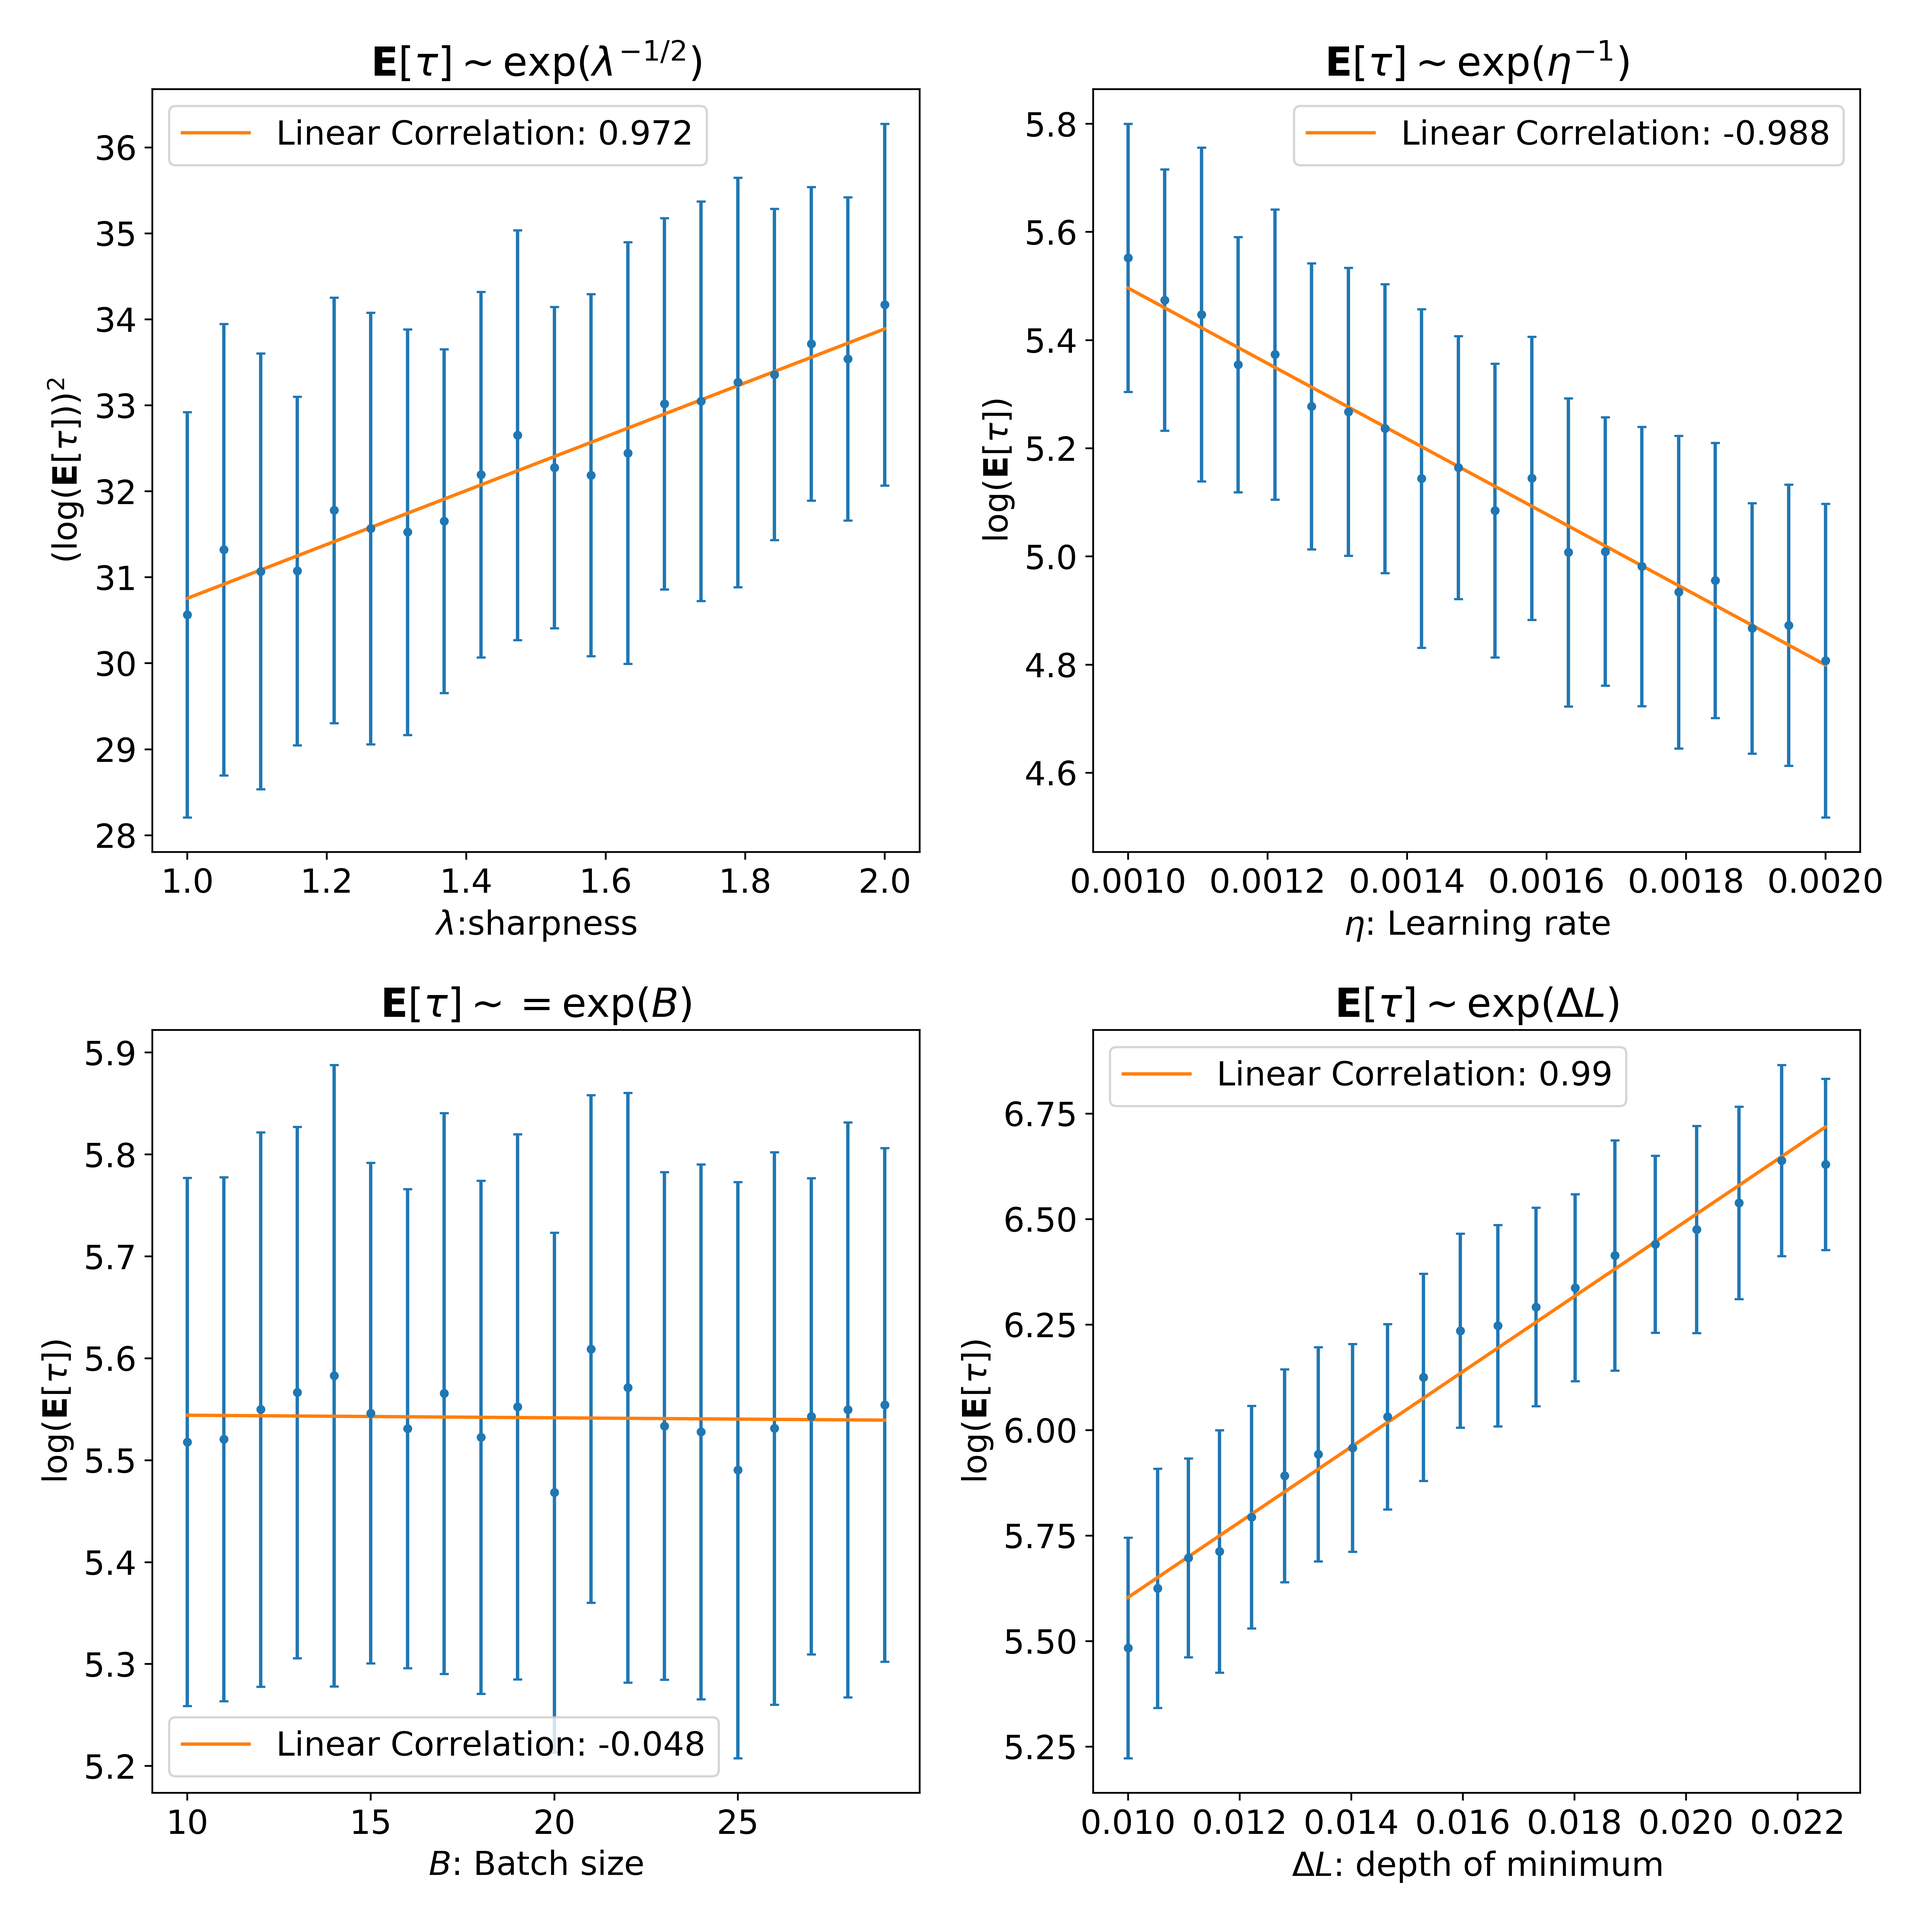
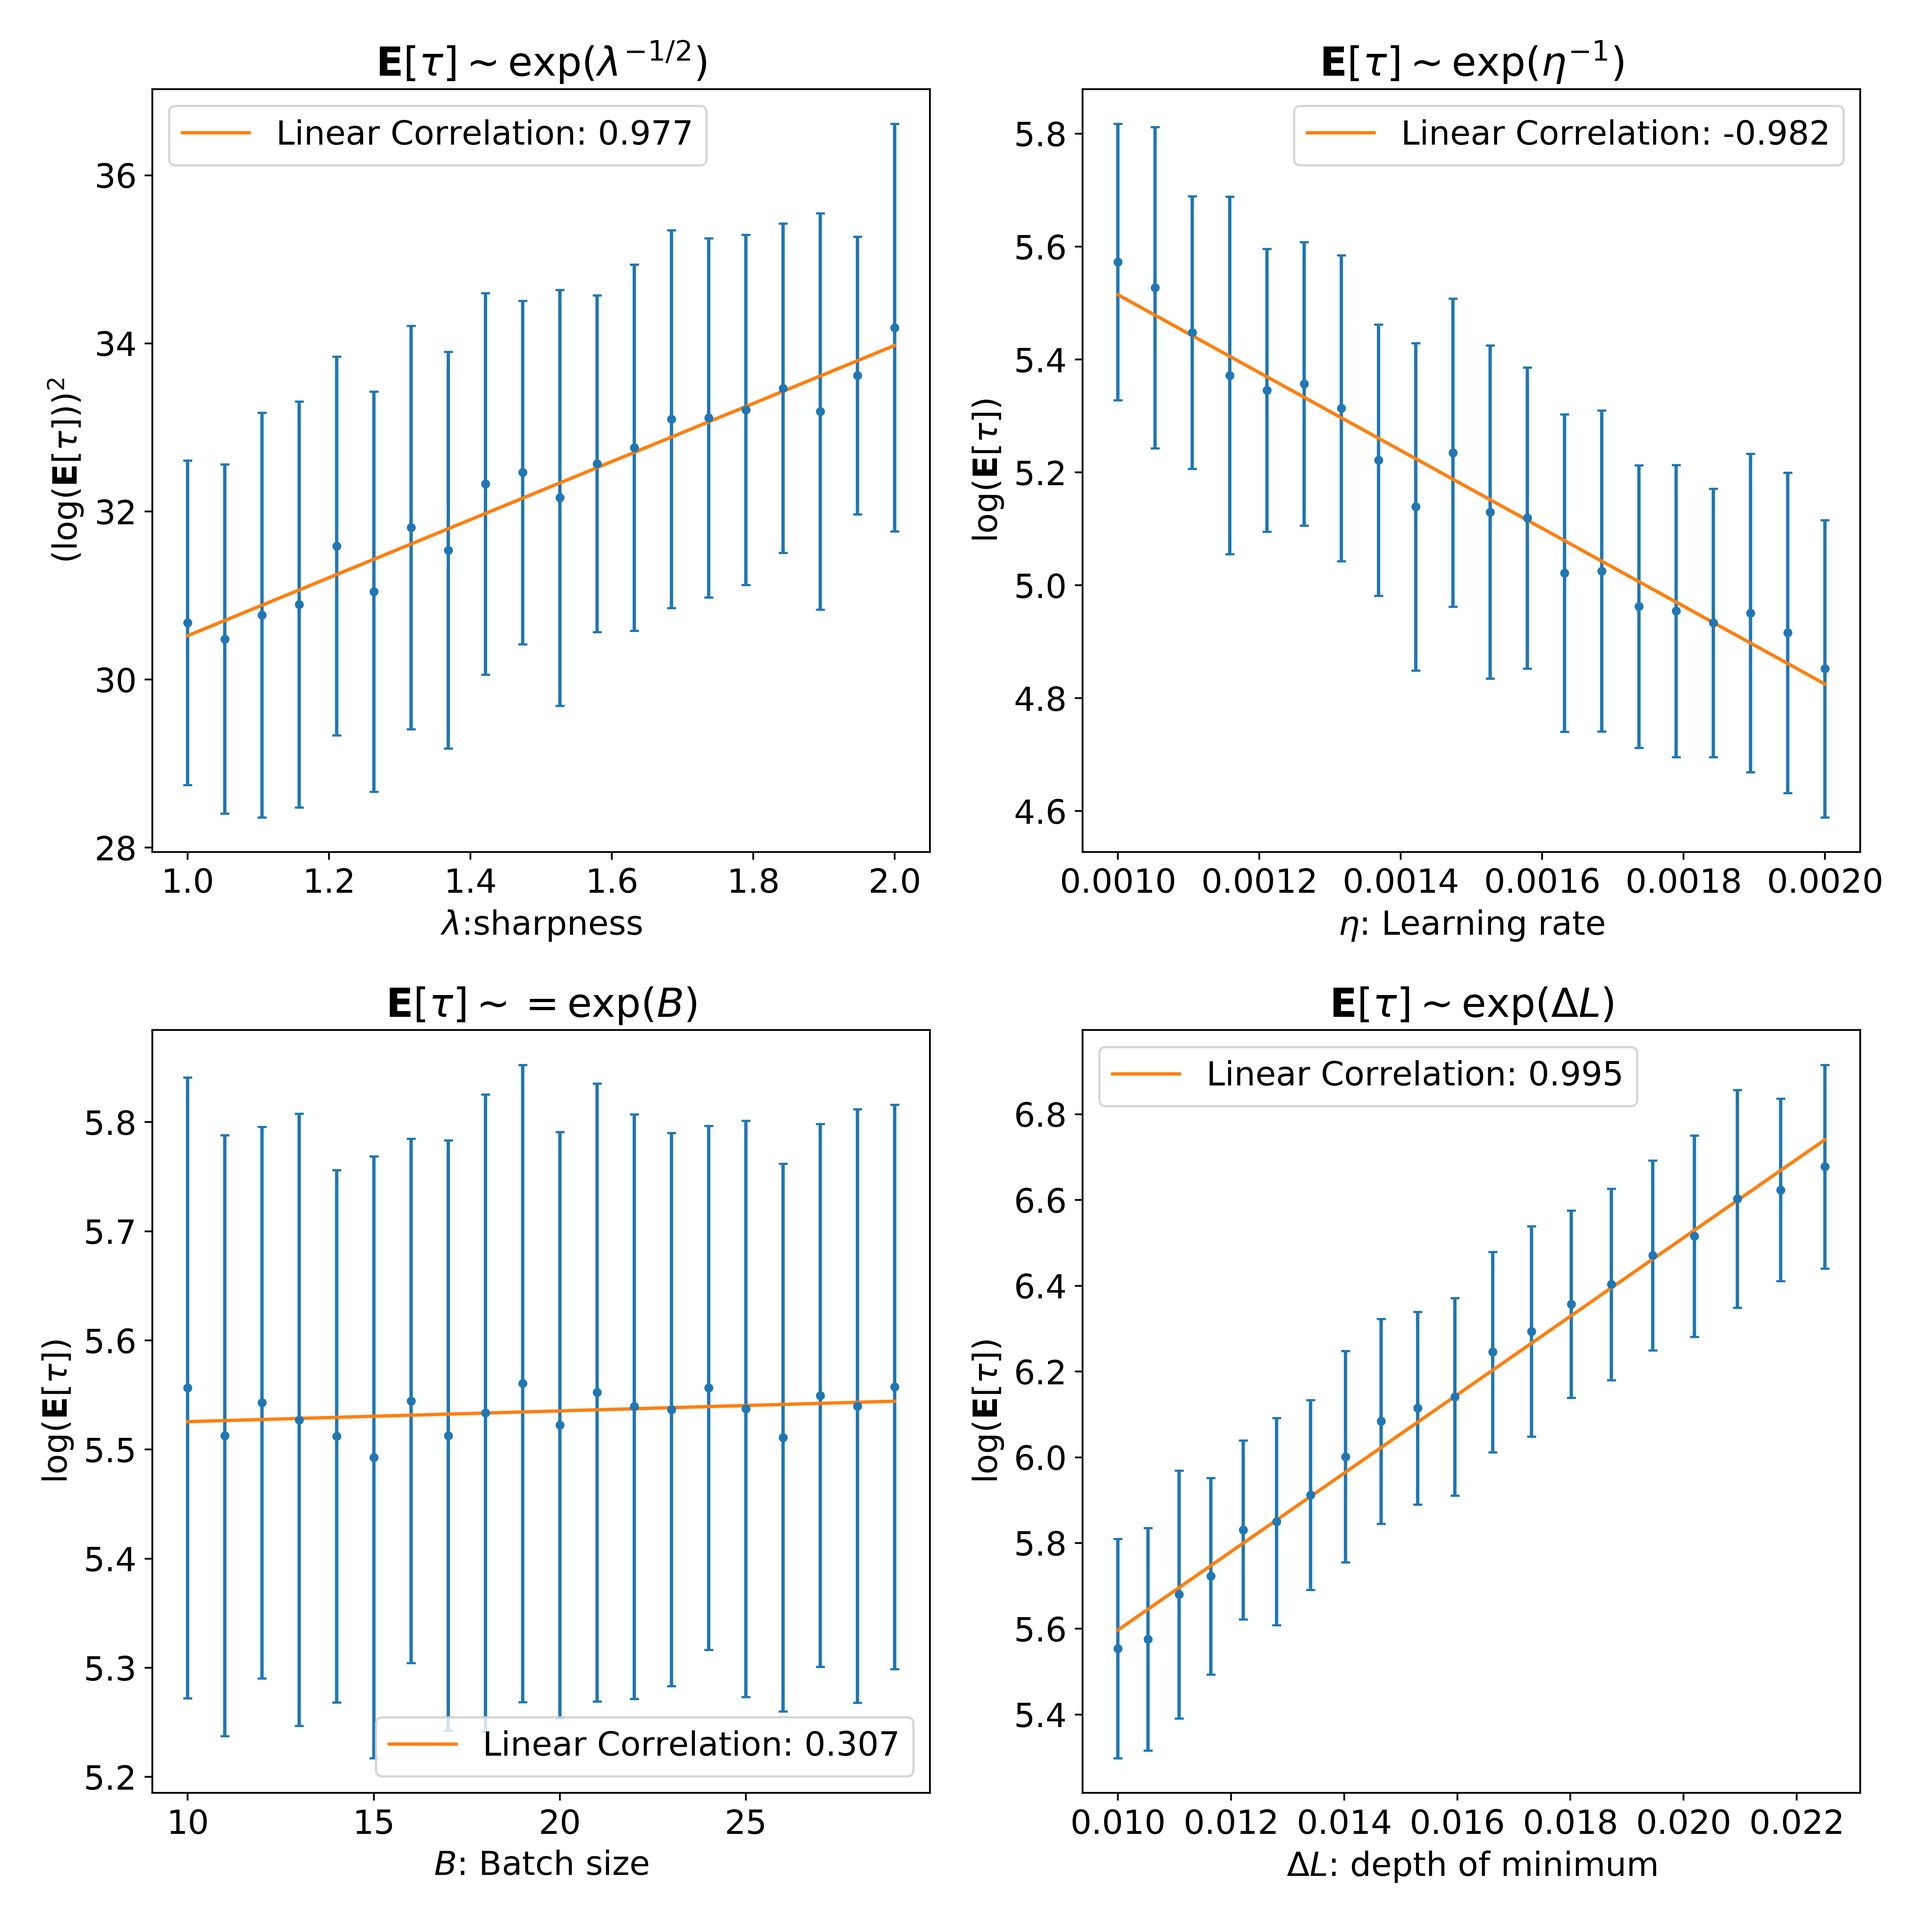
update

diff --git a/exit_time.py b/exit_time.py
@@ -214,17 +214,18 @@ def main():
     #
     global dataset 
     dataset = get_dataset(config)
-    #if rank == 0 and config["model"] == 'MLP':
-        # report(rank, "Training Started")
-        # print( end="", flush=True)
-        # model = get_model(config, 1)
-        # for itr in range(10000):
-        #     if itr % 100 == 0: report(rank, f"{itr}/10000")
-        #     split_num = 1000 
-        #     for batch in torch.split(dataset.train.x, split_num):  
-        #         model(batch).backward()
-        #     model.update(0.0001/split_num)
-        # torch.save(model.state_dict(), "./MLP_init_params.pt")
+    if rank == 0 and config["model"] == 'MLP':
+        report(rank, "Training Started")
+        print( end="", flush=True)
+        model = get_model(config, 1)
+        for itr in range(10000):
+            if itr % 1000 == 0: report(rank, f"{itr}/10000")
+            split_num = 1000 
+            model.zero_grad()
+            for batch in torch.split(dataset.train.x, split_num):  
+                model(batch).backward()
+            model.update(0.0001/split_num)
+        torch.save(model.state_dict(), "./MLP_init_params.pt")
     comm.Barrier()
     #
     report(rank, "Sharpness Analysis Started")
